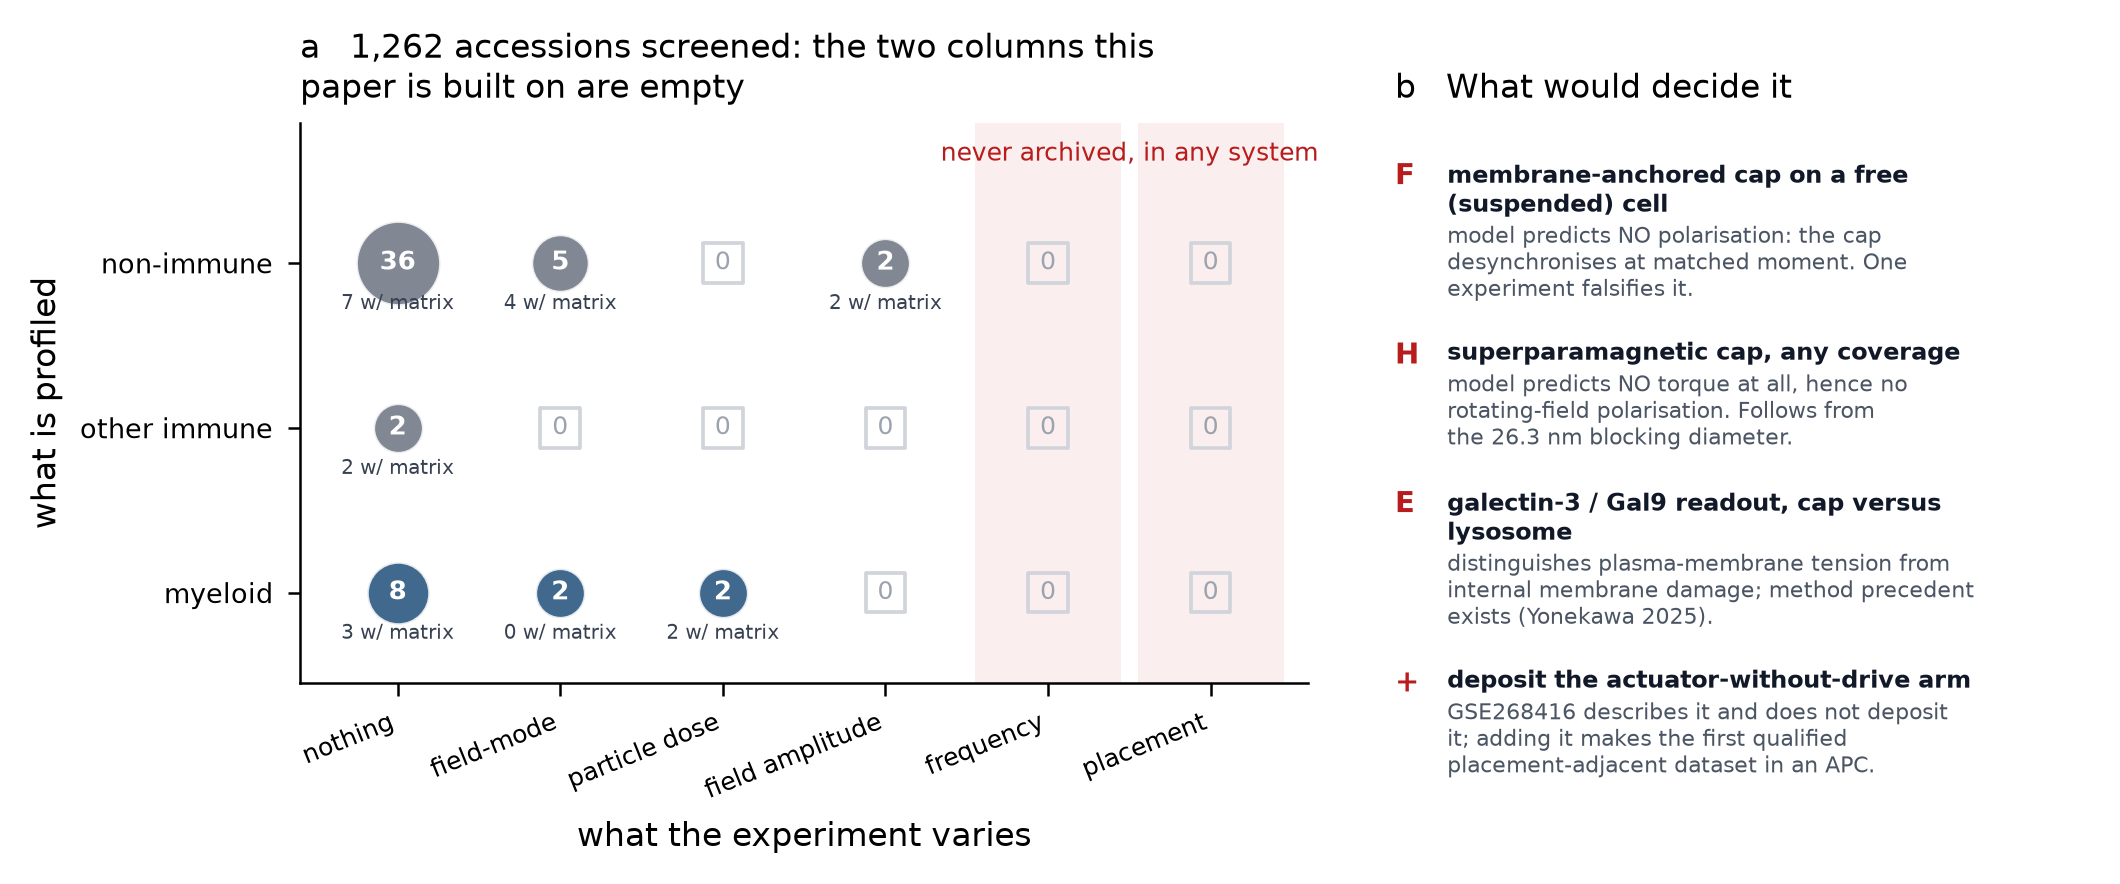
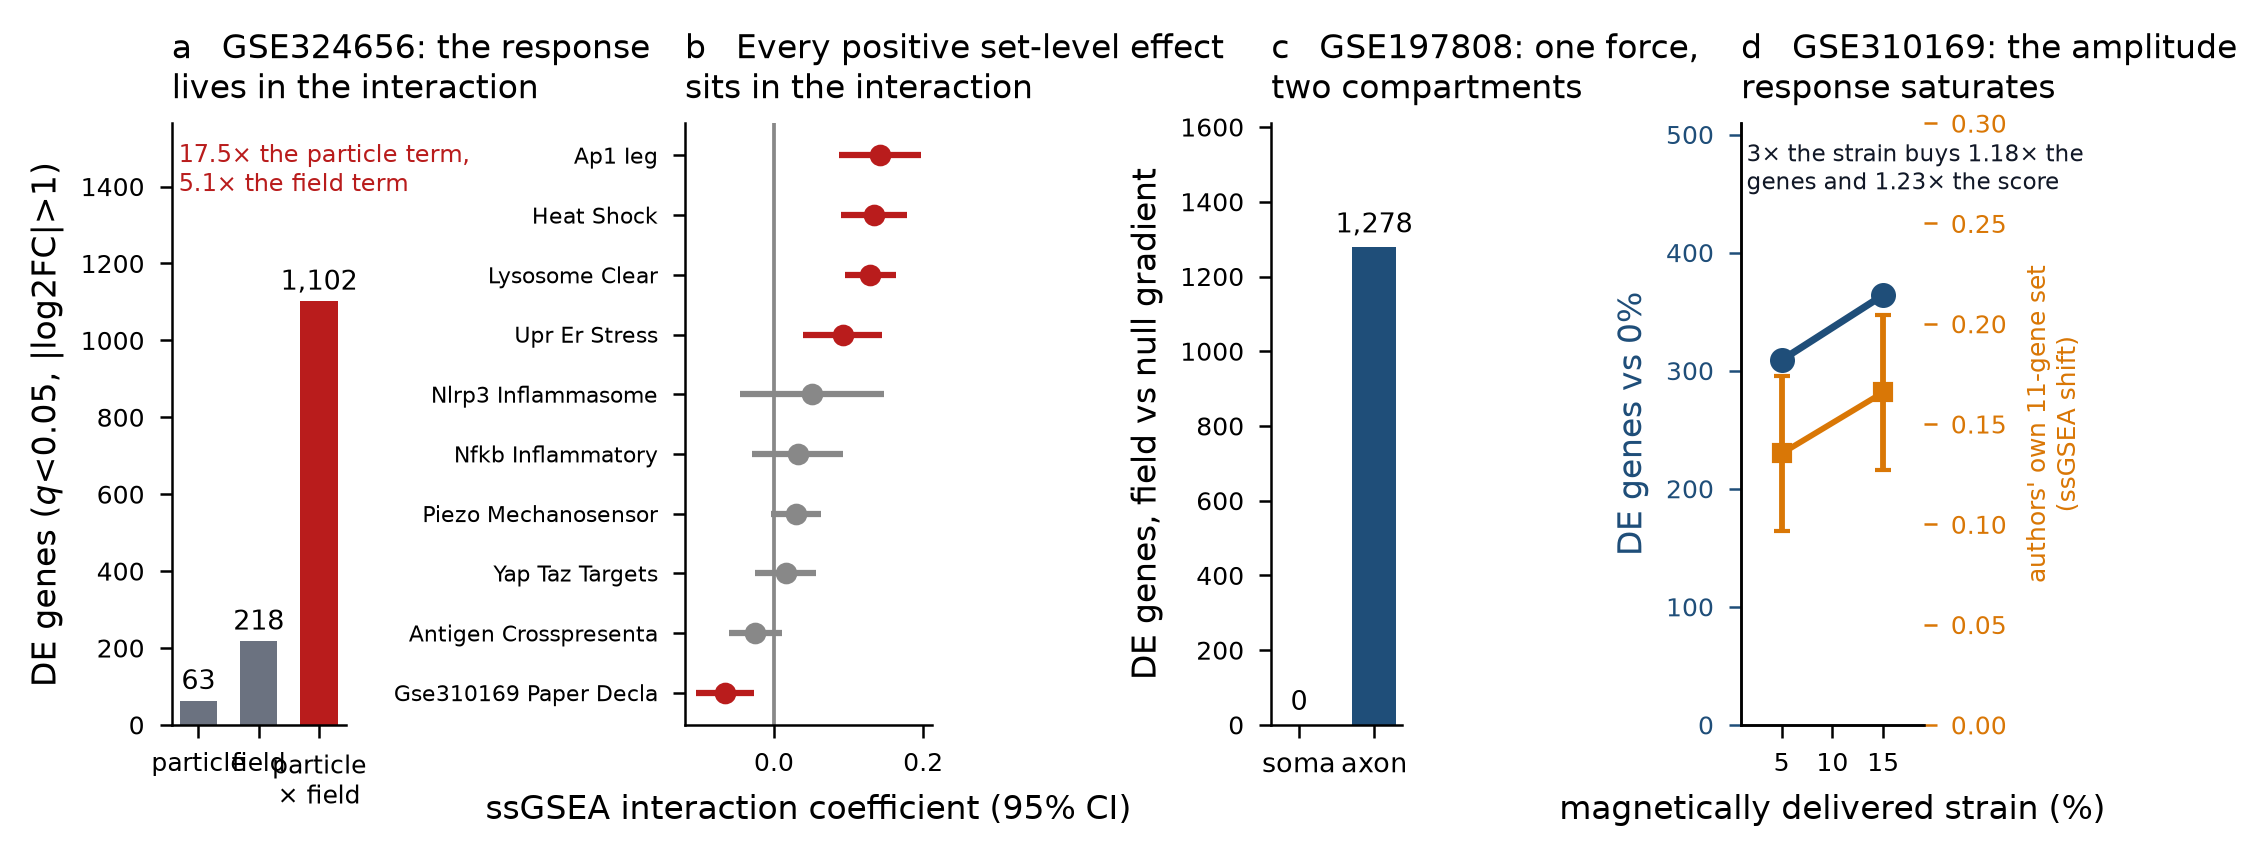
Decision table moved to the main text as table 2; figures renumbered to nine; add per-case evidence table S6

diff --git a/README.md b/README.md
@@ -14,6 +14,7 @@ No new experimental data were generated. Every number in the manuscript is produ
 | **Table S2** | Validation ladder: pre-registered pass criteria and every measured quantity for all four levels, with our value, the reported value and the ratio. | `tables/validation_ladder_summary.csv` |
 | **Table S3** | The five registered source contradictions (C1-C5), each recorded with the handling adopted rather than resolved. | `tables/F_source_contradictions.csv` |
 | **Table S4** | Step-out scaling curves with local log-log slopes, and the thirteen matched-moment configurations. | `tables/F_two_path_stepout_scaling.csv, tables/F_two_path_matched_moment.csv` |
+| **Table S6** | Per-case published evidence behind table 2 of the manuscript | `tables/F_table_S6_case_evidence.csv` |
 | **Table S5** | Screened archive inventory with tier assignment for all 1262 accessions. | `tables/F_GEO_scan_inventory.csv` |
 
 ## Figures
@@ -27,9 +28,8 @@ No new experimental data were generated. Every number in the manuscript is produ
 | Figure 5 | Matched-moment comparison | `figures/Figure5.png` |
 | Figure 6 | Validation ladder: four published measurements, no fitted parameters | `figures/Figure6.png` |
 | Figure 7 | The dose plane, computed twice | `figures/Figure7.png` |
-| Figure 8 | Polarisation direction as a model output | `figures/Figure8.png` |
-| Figure 9 | The axis this paper is built on has never been archived | `figures/Figure9.png` |
-| Figure 10 | What a proper design recovers, in systems that have run one | `figures/Figure10.png` |
+| Figure 8 | The axis this paper is built on has never been archived | `figures/Figure8.png` |
+| Figure 9 | What a proper design recovers, in systems that have run one | `figures/Figure9.png` |
 
 ## Scripts
 
